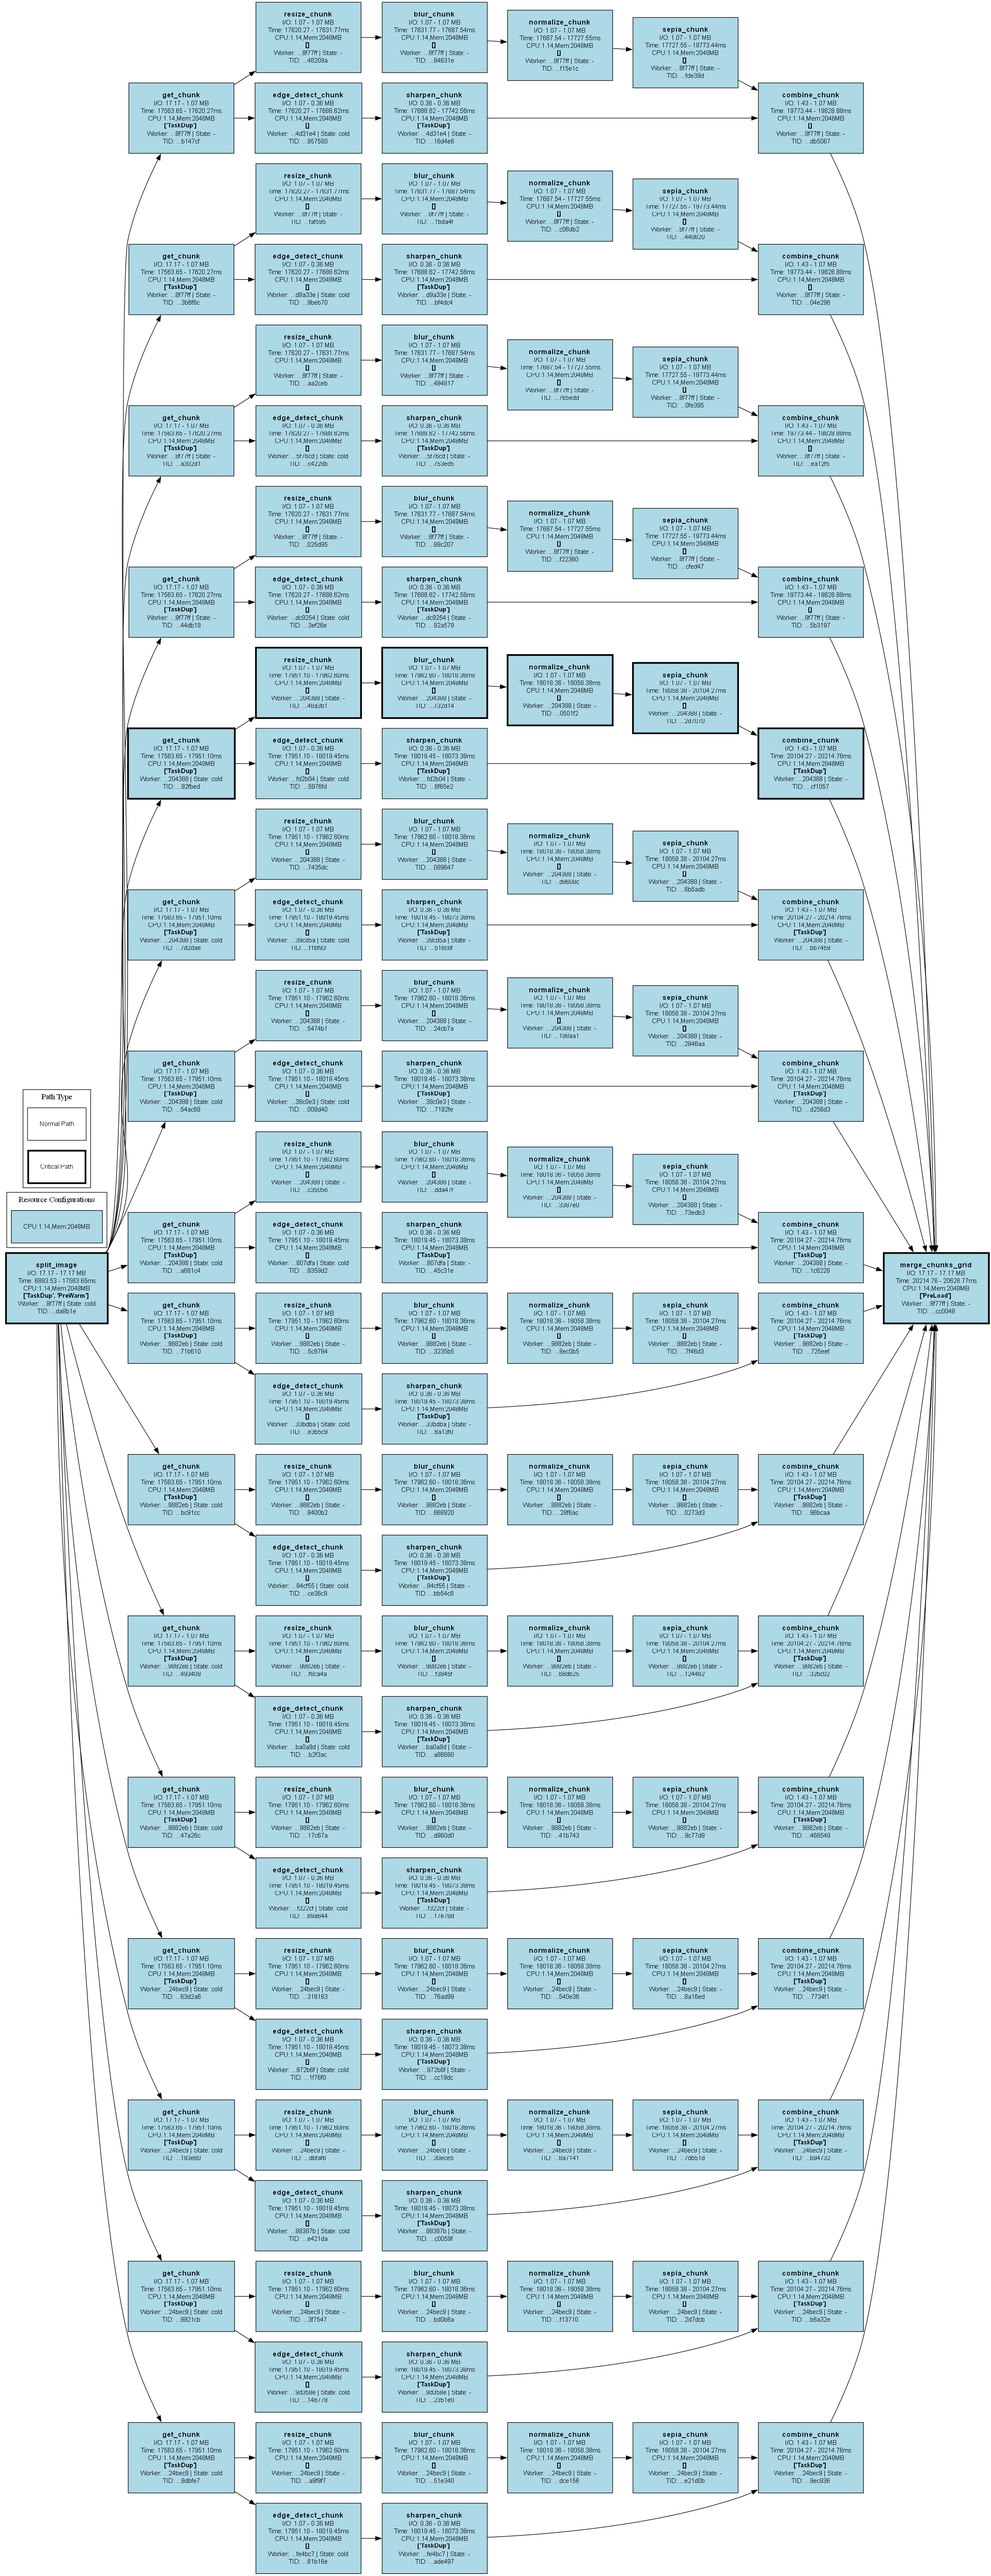
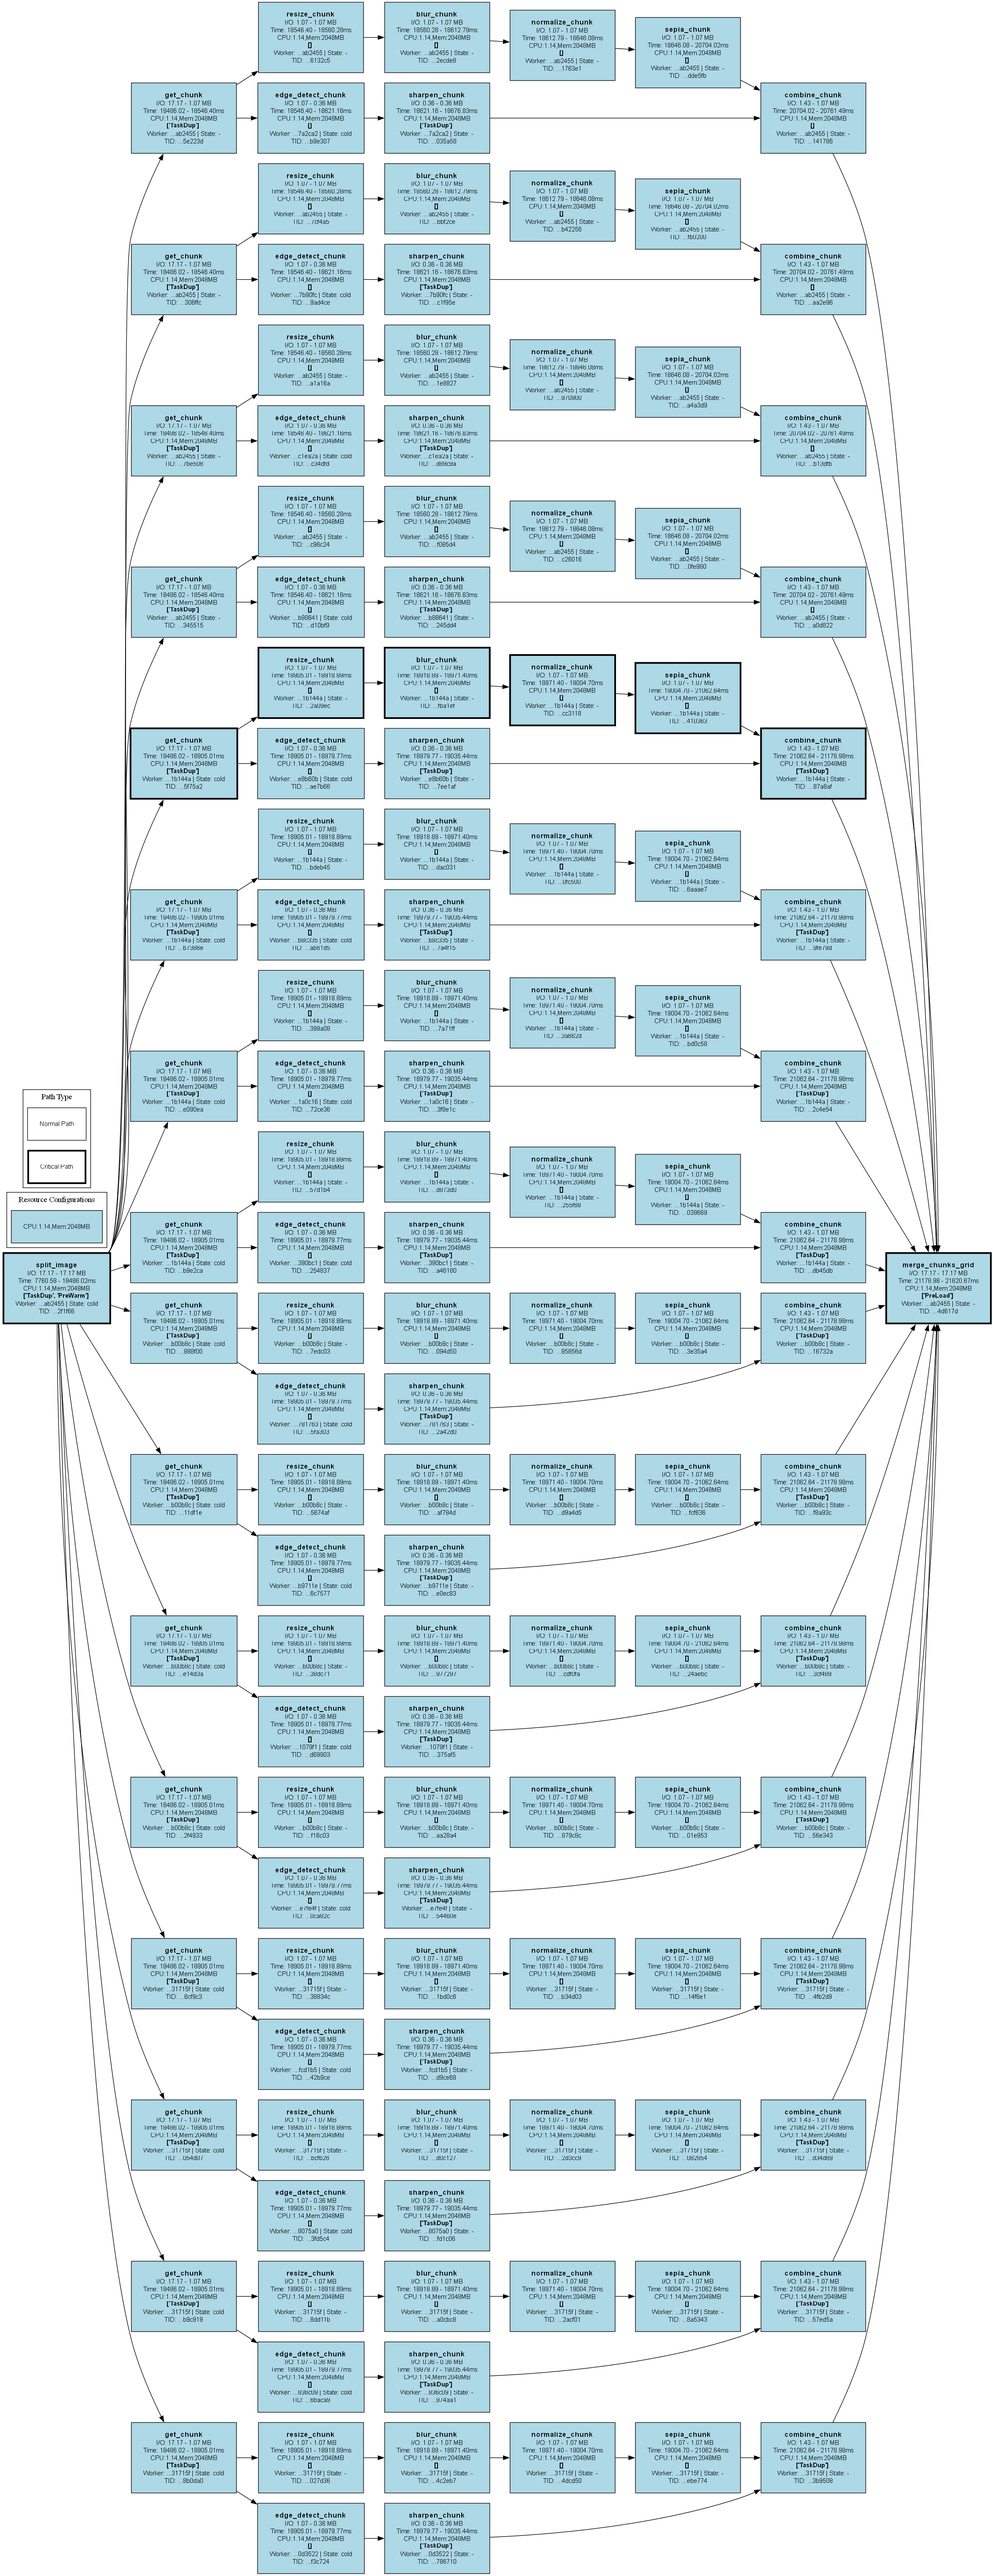
update prewarm logic

diff --git a/src/planning/optimizations/prewarm.py b/src/planning/optimizations/prewarm.py
@@ -34,18 +34,21 @@ class PreWarmOptimization(TaskOptimization, WorkerExecutionLogic):
 
         _planner: AbstractDAGPlanner = planner
         _predictions_provider: PredictionsProvider = predictions_provider
+        _nodes_info: dict[str, AbstractDAGPlanner.PlanningTaskInfo] = nodes_info
 
         # --- Step 1: group tasks by worker config + id ---
-        workers = {}  # key: (worker_id) -> list of tasks
-        for node_info in nodes_info.values():
+        workers: dict[str, list[AbstractDAGPlanner.PlanningTaskInfo]] = {}  # key: (worker_id) -> list of tasks
+        for node_info in _nodes_info.values():
+            if node_info.node_ref.worker_config.worker_id is None: continue
             workers.setdefault(node_info.node_ref.worker_config.worker_id, []).append(node_info)
 
         # --- Step 2: build worker timelines ---
-        worker_timelines = {}
+        worker_timelines: dict[str, dict] = {}
         for worker_key, tasks in workers.items():
             start = min(n.earliest_start_ms for n in tasks)
             end = max(n.earliest_start_ms + n.tp_exec_time_ms for n in tasks)
-            startup = max(n.tp_worker_startup_time_ms for n in tasks)
+            # time to launch the cold worker
+            startup = _predictions_provider.predict_worker_startup_time(tasks[0].node_ref.worker_config, "cold", _planner.config.sla)
             first_node = min(tasks, key=lambda n: n.earliest_start_ms).node_ref
             worker_timelines[worker_key] = {
                 "tasks": tasks,
@@ -66,22 +69,25 @@ class PreWarmOptimization(TaskOptimization, WorkerExecutionLogic):
         # - 0.5: balanced
         # - 1.0: latest possible prewarm (closest to target start, riskier but fresher warm state)
         PREWARM_TIMING_PREFERENCE = 0.7
+        # if worker won't be active for more than X seconds, don't prewarm. The value is low (3 seconds because there may be other workers which will reuse this container, making prewarm compensate)
 
-        for my_key, my_info in worker_timelines.items():
+        for wid, my_info in worker_timelines.items():
             # Skip if not cold start or if it's a root node (no upstream)
             if my_info["worker_startup_state"] != "cold":
                 continue
             if not my_info["tasks"][0].node_ref.upstream_nodes:
                 continue
 
-            # Check if startup time is significant enough to warrant prewarming
-            # total_other_exec = sum(
-            #     o.tp_exec_time_ms
-            #     for k, w in worker_timelines.items() if k != my_key
-            #     for o in w["tasks"]
-            # )
-            # if not (my_info["startup"] > 0.10 * total_other_exec):
-            #     continue
+            # Execution time of tasks that start at the same time or after me and use the same worker resource config, because they might benefit from a new prewarmed container as well
+            tasks_exec_time = sum(
+                o.tp_exec_time_ms
+                for wid, w in worker_timelines.items() if w["worker_config"].memory_mb == my_info["worker_config"].memory_mb
+                # tasks of this worker OR tasks that start after this worker
+                for o in w["tasks"] if o.earliest_start_ms > my_info["start"] or o.node_ref.worker_config.worker_id == my_info["worker_config"].worker_id
+            )
+            if tasks_exec_time > 0.5 * my_info["startup"]:
+                print(f"Doesn't compensate to prewarm | tasks exec time: {tasks_exec_time / 1000:.2f}s | Worker Startup: {my_info['startup'] / 1000:.2f}s")
+                continue
 
             # logger.info(f"[PREWARM-ASSIGNMENT] Will try to prewarm worker {my_key}")
             # Calculate the ideal prewarm trigger time:
@@ -98,12 +104,10 @@ class PreWarmOptimization(TaskOptimization, WorkerExecutionLogic):
             candidates = []
             
             # Get the target worker's startup time for margin calculations
-            target_startup_time_ms = _predictions_provider.predict_worker_startup_time(
-                my_info["worker_config"], "cold", _planner.config.sla
-            )
+            target_startup_time_ms = my_info["startup"]
             
             for other_key, other_info in worker_timelines.items():
-                if other_key == my_key:
+                if other_key == wid:
                     continue
 
                 # The prewarm can be triggered any time while this worker is active
@@ -215,17 +219,13 @@ class PreWarmOptimization(TaskOptimization, WorkerExecutionLogic):
 
                 if best_delay_s is not None:
                     logger.info(f"[PREWARM-ASSIGNMENT] Prewarm successful for worker id: {my_info['worker_config'].worker_id} starting at {my_info['start']}ms: "
-                        f"trigger from worker id {best_worker['worker_config'].worker_id} (trigger at {(best_worker['start'] + (best_delay_s * 1000)):.1f}ms)")
+                        f"trigger from worker id {best_worker['worker_config'].worker_id} (trigger at {(best_worker['start'] + (best_delay_s * 1000)):.1f}ms) startup time: {best_worker['startup']:.1f}ms")
 
                 annotation.target_resource_configs.append(
                     (best_delay_s, my_info["worker_config"])
                 )
 
-                # recompute timings after adding annotation
-                nodes_info = _planner._calculate_workflow_timings(
-                    dag, topo_sorted_nodes, _predictions_provider, _planner.config.sla
-                )
-
+        exit() ##! for debug
         return
 
     @staticmethod

diff --git a/TODO.md b/TODO.md
@@ -1,11 +1,7 @@
 - Dashboard
     [IMPLEMENTATION]
     - PREWARM was not used/effective?:
-        ISSUE: prewarm was not being assigned too much
-        re-check prints on dashboard
-        and adjust parameters accordingly (launch closer to target or farther worker warm time? 8 seconds?)
-            use prewarmmetric.resource_config.worker_id to compare against reality
-        recheck now
+        - now that prewarm is being applied, check its effectiveness on dashboard to understand if its too late, too early or good
     
     - Run all experiments on VM
         Only run 4 instances each to begin with
